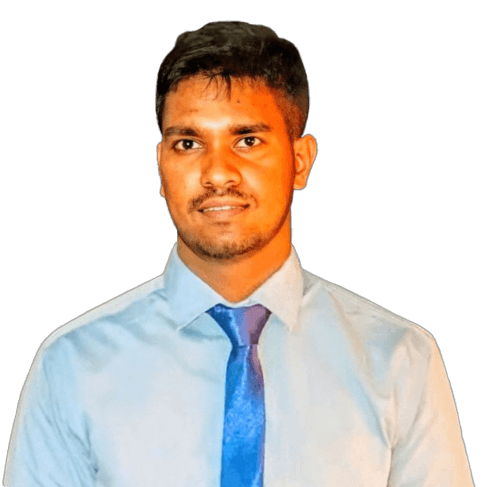
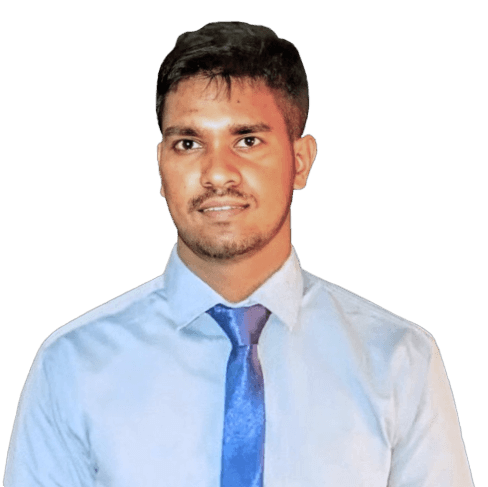
change profile image

diff --git a/index.html b/index.html
@@ -123,7 +123,7 @@
 
     <section id="home">
       <div id="item1">
-        <img src="img/profile.png" alt="dp" />
+        <img src="img/dp3.png" alt="dp" />
       </div>
       <div id="item2">
         <br />

diff --git a/css/style.css b/css/style.css
@@ -102,7 +102,7 @@ section {
 }
 
 #home #item1 img {
-  width: 300px;
+  width: 400px;
   height: auto;
   border-radius: 25%;
 }
